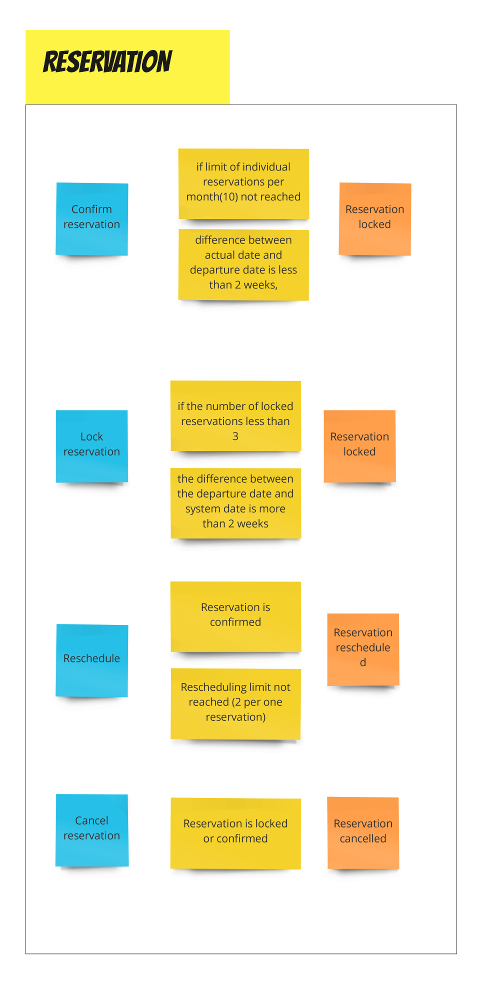
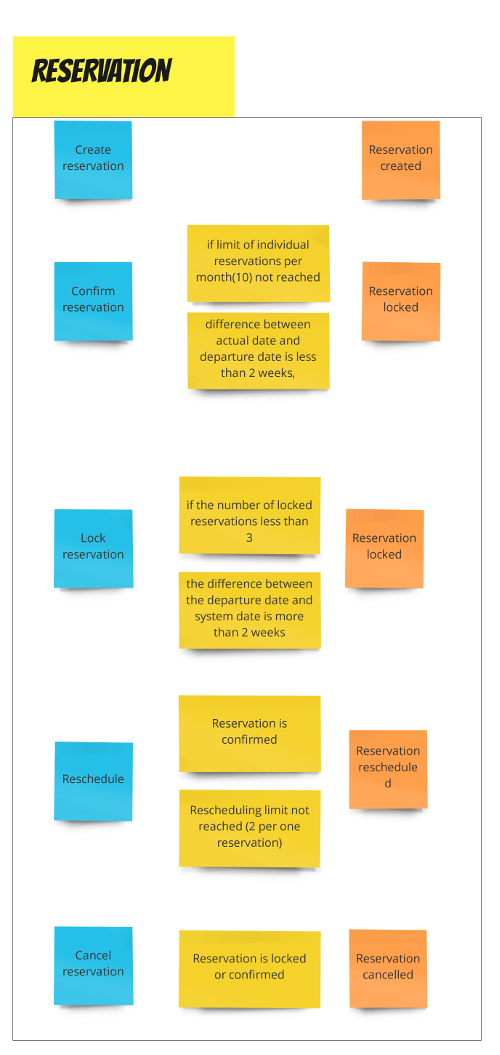
impl

diff --git a/src/main/java/mw/ars/reservations/reservation/model/Reservation.java b/src/main/java/mw/ars/reservations/reservation/model/Reservation.java
@@ -1,0 +1,23 @@
+package mw.ars.reservations.reservation.model;
+
+import mw.ars.commons.model.Result;
+
+public class Reservation {
+  public Result create() {
+    return Result.success();
+  }
+  public Result confirm() {
+    return Result.success();
+  }
+  public Result lock() {
+    return Result.success();
+  }
+
+  public Result reschedule() {
+    return Result.success();
+  }
+
+  public Result cancel() {
+    return Result.success();
+  }
+}

diff --git a/src/main/java/mw/ars/commons/model/Result.java b/src/main/java/mw/ars/commons/model/Result.java
@@ -1,0 +1,17 @@
+package mw.ars.commons.model;
+
+public class Result {
+ private boolean res;
+
+ public Result(boolean res) {
+  this.res = res;
+ }
+
+ public static Result success() {
+    return new Result(true);
+  }
+
+  public static Result failure() {
+    return new Result(false);
+  }
+}
